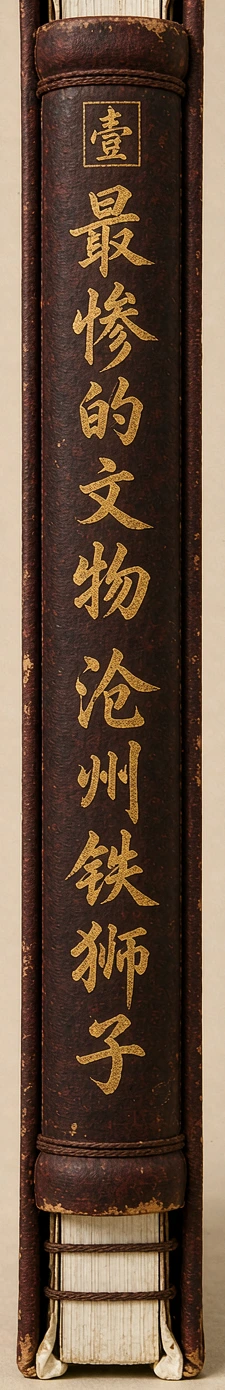
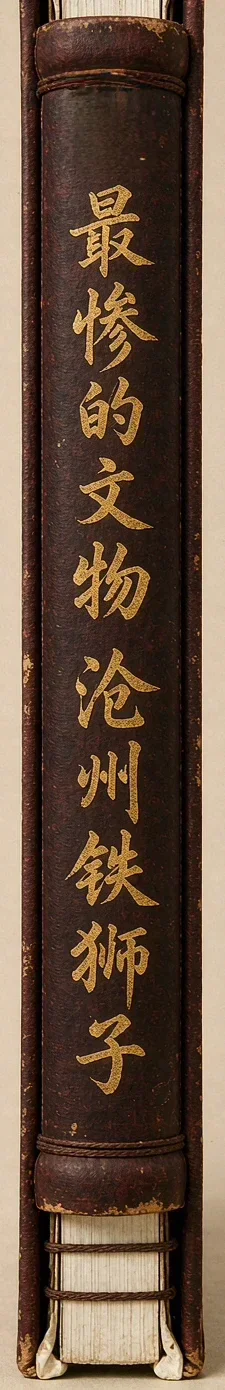
feat(拾遗录): 新增第三、四本漫画，书脊去掉卷号
- 第三本《国博人气文物陶鹰鼎，至今用途仍是谜》9 页（封面/小讲堂/馆藏实拍）

- 第四本《错金铜镇 · 镇席之宝》6 页豆包 Q 版漫画，已去水印并按故事顺序编排

- spine-01/02 重新生图去掉「壹/贰」卷号与方框，新增 spine-03/04（陶鹰鼎/错金铜镇）

- 守卫 check_shiyilu.py 扩到 60 项，覆盖第四本抽出/翻页/独立书脊/手机视口

- tools/cdp.py 用 ProxyHandler({}) 强制直连，绕过本机代理拦截调试端口

diff --git a/js/app.js b/js/app.js
@@ -1974,6 +1974,41 @@ const SHIYILU = {
         { f: "shiyilu/ep09-4.webp", cap: "第 4 页" },
         { f: "shiyilu/ep09-5.webp", t: "附 · 小讲堂", land: true, cap: "文物小讲堂:妇好鸮尊,商晚期青铜礼器" }
       ]
+    },
+    {
+      id: "taoyingding",
+      title: "国博人气文物陶鹰鼎,至今用途仍是谜",
+      sub: "第 3 话",
+      cover: "shiyilu/ep10-cover.webp",
+      spine: "shiyilu/spine-03.webp",
+      desc: "国博人气文物陶鹰鼎的求职日记。这只六千岁的仰韶文化鹰形陶鼎,活得太久忘了自己到底盛饭还是祭祀,想抄作业却发现同类就它一件——来洗浴中心碰碰运气,顺便聊聊那段被当成「鸡食盆」的黑历史。",
+      ep: [
+        { f: "shiyilu/ep10-cover.webp", t: "封面", cap: "第 3 话 · 国博人气文物陶鹰鼎,至今用途仍是谜" },
+        { f: "shiyilu/ep10-1.webp", cap: "第 1 页" },
+        { f: "shiyilu/ep10-2.webp", cap: "第 2 页" },
+        { f: "shiyilu/ep10-3.webp", cap: "第 3 页" },
+        { f: "shiyilu/ep10-4.webp", cap: "第 4 页" },
+        { f: "shiyilu/ep10-5.webp", cap: "第 5 页" },
+        { f: "shiyilu/ep10-6.webp", t: "附 · 小讲堂", land: true, cap: "文物小讲堂:陶鹰鼎,仰韶文化鹰形陶鼎" },
+        { f: "shiyilu/ep10-7.webp", t: "附 · 馆藏实拍", cap: "馆藏实拍:鹰形陶鼎" },
+        { f: "shiyilu/ep10-8.webp", t: "附 · 馆藏实拍", cap: "馆藏实拍:鹰形陶鼎" }
+      ]
+    },
+    {
+      id: "cuojintongzhen",
+      title: "错金铜镇 · 镇席之宝",
+      sub: "第 4 话",
+      cover: "shiyilu/ep12-1.webp",
+      spine: "shiyilu/spine-04.webp",
+      desc: "汉代错金铜镇的自述。工匠把金丝一点点错进铜里,它便有了压住席角的本事,也压住了两千年的排场。沉睡千年被考古队唤醒,如今夜里在展柜里悄悄伸个懒腰——旁边那只橘猫,是它守着每一道金丝的见证人。",
+      ep: [
+        { f: "shiyilu/ep12-1.webp", t: "封面 · 错金初成", cap: "第 4 话 · 汉代工匠为它错嵌金丝纹样" },
+        { f: "shiyilu/ep12-2.webp", t: "汉代席镇", cap: "压住席角,也压住排场" },
+        { f: "shiyilu/ep12-3.webp", t: "错金纹样", cap: "金丝入铜,千年不褪" },
+        { f: "shiyilu/ep12-4.webp", t: "破土而出", cap: "沉睡千年,再次被看见" },
+        { f: "shiyilu/ep12-5.webp", t: "文物苏醒", cap: "夜里,博物馆很热闹" },
+        { f: "shiyilu/ep12-6.webp", t: "守护誓言", cap: "守护每一道金丝,也守护那段岁月" }
+      ]
     }
   ]
 };

diff --git a/index.html b/index.html
@@ -890,7 +890,7 @@ body.bg-paint .bg-art-paper{opacity:.08!important}
   <script src="js/save-id.js"></script>
   <script src="js/qrcode.js"></script>
   <script src="js/ident-direct.js?v=20261019"></script>
-  <script src="js/app.js?v=20261108r"></script>
+  <script src="js/app.js?v=20261108t"></script>
   <script src="js/feedback.js?v=fb1"></script>
   <script src="js/eval-bench.js?v=ev2"></script>
   <script src="js/vendor/workbuddy-cloud-sdk.js"></script>

diff --git a/tools/check_shiyilu.py b/tools/check_shiyilu.py
@@ -120,8 +120,8 @@ open_page(c)
 say(c.eval("!!document.querySelector('.sa-shelf')"), "书架渲染出来了")
 h2 = c.eval("(document.querySelector('.page-head h2')||{}).textContent||''")
 say("文物拟人漫画" in h2, "页面标题带「文物拟人漫画」", h2.strip())
-say(c.eval("document.querySelectorAll('#sa-books .sa-slot:not(.sa-empty)').length") == 2,
-    "书架上有 2 本真书(书脊)",
+say(c.eval("document.querySelectorAll('#sa-books .sa-slot:not(.sa-empty)').length") == 4,
+    "书架上有 4 本真书(书脊)",
     c.eval("document.querySelectorAll('#sa-books .sa-slot:not(.sa-empty)').length"))
 say(c.eval("document.querySelectorAll('#sa-books .sa-slot.sa-empty').length") >= 3,
     "书架上有若干「待上架」占位书脊",
@@ -249,6 +249,61 @@ for _ in range(40):
         break
     time.sleep(0.25)
 say(w5[0] > w5[1] > 0, "第二本第 5 页（文物小讲堂）是横版", "%dx%d" % tuple(w5))
+c.eval("saClose()")
+c.eval("saPush()")
+time.sleep(0.4)
+
+# ---- 6.6 第三本书（陶鹰鼎） ----
+c.eval("saPull(2)")
+time.sleep(0.5)
+say(pulled_count(c) == 1, "点第三本也能抽出来", "%d 本抽出" % pulled_count(c))
+h3c = c.eval("(document.querySelector('.sa-info.cur h3')||{}).textContent||''")
+say("陶鹰鼎" in h3c or "鹰" in h3c, "第三本信息写着陶鹰鼎标题", h3c.strip())
+c.eval("saOpen(2)")
+time.sleep(0.5)
+say(open_reader(c), "点第三本封面打开阅读器")
+say(c.eval("document.querySelectorAll('#sa-leaf figure').length") == 9, "第三本书有 9 页",
+    "%d 页" % c.eval("document.querySelectorAll('#sa-leaf figure').length"))
+say("ep10" in cur_src(c), "第三本开局是它的封面页", cur_src(c))
+c.eval("saGoto(6)")
+time.sleep(0.3)
+w6 = [0, 0]
+for _ in range(40):
+    w6 = c.eval("(function(){var f=document.querySelector('#sa-leaf figure.cur img');"
+                "return f?[f.naturalWidth,f.naturalHeight]:[0,0];})()")
+    if w6[0]:
+        break
+    time.sleep(0.25)
+say(w6[0] > w6[1] > 0, "第三本第 7 页（文物小讲堂）是横版", "%dx%d" % tuple(w6))
+c.eval("saClose()")
+c.eval("saPush()")
+time.sleep(0.4)
+
+# ---- 6.7 第四本书（错金铜镇，豆包生成 6 张 Q 版漫画） ----
+c.eval("saPull(3)")
+time.sleep(0.5)
+say(pulled_count(c) == 1, "点第四本也能抽出来", "%d 本抽出" % pulled_count(c))
+h4c = c.eval("(document.querySelector('.sa-info.cur h3')||{}).textContent||''")
+say("错金铜镇" in h4c, "第四本信息写着错金铜镇标题", h4c.strip())
+sp4 = c.eval("(document.querySelector('#sa-books .sa-slot[data-i=\"3\"] .sa-spine')"
+             ".style.backgroundImage)||''")
+say("spine-04" in sp4, "第四本用独立书脊图 spine-04", sp4)
+c.eval("saOpen(3)")
+time.sleep(0.5)
+say(open_reader(c), "点第四本封面打开阅读器")
+say(c.eval("document.querySelectorAll('#sa-leaf figure').length") == 6, "第四本书有 6 页",
+    "%d 页" % c.eval("document.querySelectorAll('#sa-leaf figure').length"))
+say("ep12" in cur_src(c), "第四本开局是它的封面页", cur_src(c))
+c.eval("saGoto(5)")
+time.sleep(0.3)
+w4 = [0, 0]
+for _ in range(40):
+    w4 = c.eval("(function(){var f=document.querySelector('#sa-leaf figure.cur img');"
+                "return f?[f.naturalWidth,f.naturalHeight]:[0,0];})()")
+    if w4[0]:
+        break
+    time.sleep(0.25)
+say(w4[0] > 0 and w4[1] > w4[0], "第四本第 6 页（守护誓言）竖版加载成功", "%dx%d" % tuple(w4))
 c.eval("saClose()")
 c.eval("saPush()")
 time.sleep(0.4)

diff --git a/tools/cdp.py b/tools/cdp.py
@@ -19,8 +19,9 @@ UA = ("Mozilla/5.0 (Windows NT 10.0; Win64; x64) AppleWebKit/537.36 "
 
 
 def http(path, method="GET"):
+    opener = urllib.request.build_opener(urllib.request.ProxyHandler({}))
     req = urllib.request.Request("http://127.0.0.1:%d%s" % (PORT, path), method=method)
-    return json.loads(urllib.request.urlopen(req, timeout=15).read().decode())
+    return json.loads(opener.open(req, timeout=15).read().decode())
 
 
 def tab(url=None):
